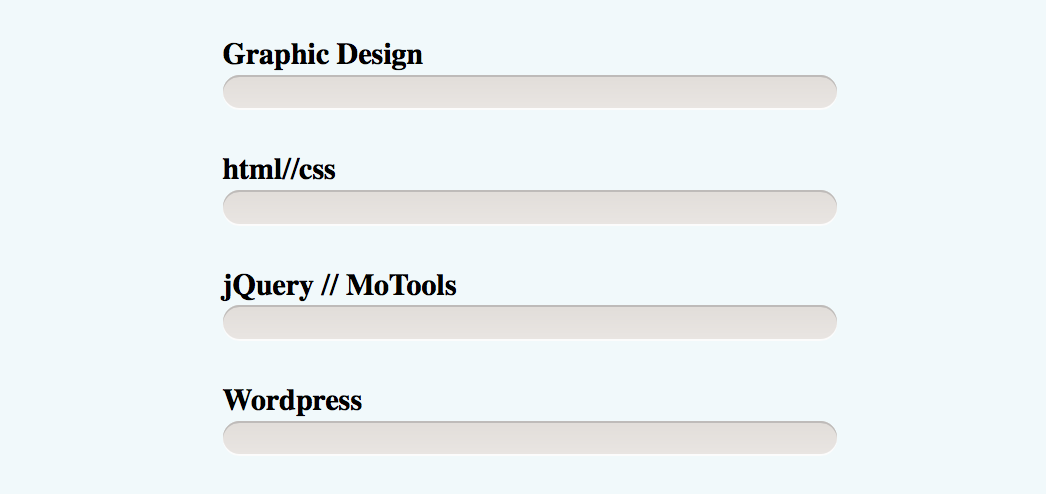
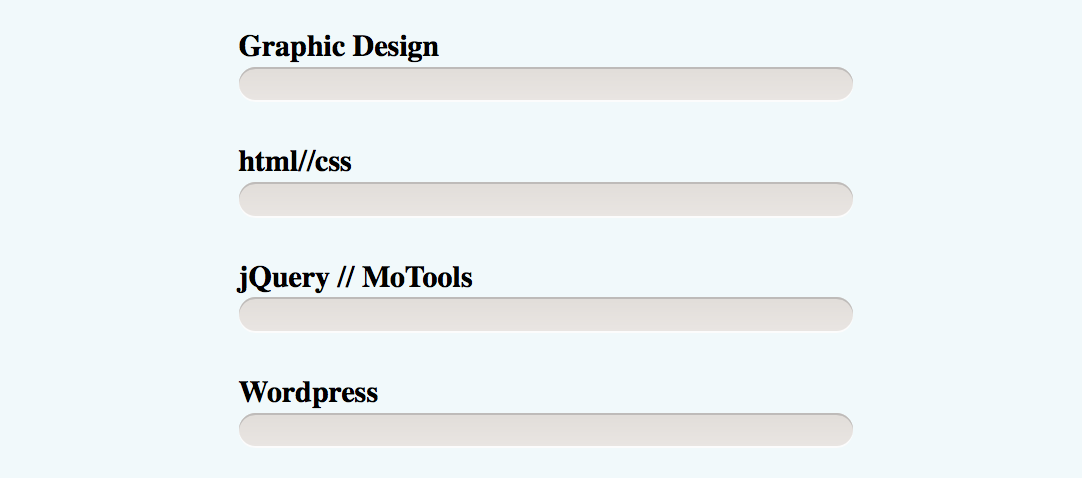
one

diff --git a/blog/article/index.html b/blog/article/index.html
@@ -80,38 +80,113 @@
                 <pre>
 #skill {
     list-style: none;
-    font-size: .8em;
-    width: 24em;
-    margin: 0 auto;
-    padding:2em 0;
+    font-size: 12px;
+    width: 296px;
+    margin: 50px auto 0;
+    padding: 30px 0;
     position: relative;
     line-height: 2em;
 }
 #skill li {
-    margin-bottom: 3.2em;
+    margin-bottom: 50px;
     background: #e9e5e2;
 
-    /*--背景槽渐变色--*/
-    background-image: -webkit-gradient(linear,left top,left bottom,from(#e1ddd9), to(#e9e5e2));   
-    background-image: -webkit-linear-gradient(top,#e1ddd9,#e9e5e2);
+    background-image: -webkit-gradient(linear,left top,left bottom,from(#e1ddd9), to(#e9e5e2));
     background-image: -moz-linear-gradient(top,#e1ddd9,#e9e5e2);
     background-image: -ms-linear-gradient(top,#e1ddd9,#e9e5e2);
     background-image: -o-linear-gradient(top,#e1ddd9,#e9e5e2);
     background-image: linear-gradient(top,#e1ddd9,#e9e5e2);
 
-    height: 1.3em;
-    border-radius: 10px;    /*--背景槽的圆角--*/
+    height: 20px;
+    border-radius: 10px;  /*--背景槽的圆角--*/
 
-   /*--背景槽内凹阴影效果--*/
     -webkit-box-shadow: 0 1px 0 #bebbb9 inset, 0 1px 0 #fcfcfc;
     box-shadow: 0 1px 0 #bebbb9 inset, 0 1px 0 #fcfcfc;
 }
-   ／*--标题文字上移--*／
 #skill li h3 {
     position: relative;
-    top: -1.5em;
-}   
-            </pre>
+    top: -25px;   ／*--标题文字上移--*／
+}  
+                </pre>
+            </div>
+            <p>加完这些样式之后，标题和背景槽的样式都设置好了</p>
+            <img src="three.png" />
+            <p>接下来就可以设置颜色条的样式了：</p>
+            <div class="html-1">
+                <pre>
+/*--四条进度条的统一样式--*/
+.bar {
+    height: 18px;
+    margin: 1px 2px;
+    position: absolute;
+    border-radius: 9px;
+    -webkit-box-shadow:0 1px 0 #fcfcfc inset, 0 1px 0 #bebbb9;
+    box-shadow:0 1px 0 #fcfcfc inset, 0 1px 0 #bebbb9;
+}
+/*--单独设置进度条的样式--*/
+.bar-1 {
+    width: 100%;
+    -webkit-animation: graphic-design 2s ease-in-out;
+    background-color: #f674a4;
+    background-image: -webkit-gradient( linear, left top, left bottom, from(#f674a4), to(#e06995));
+    background-image: -webkit-linear-gradient(top, #f674a4, #e06995);
+    background-image: -moz-linear-gradient(top, #f674a4, #e06995);
+    background-image: -ms-linear-gradient(top, #f674a4, #e06995);
+    background-image: -o-linear-gradient(top, #f674a4, #e06995);
+    background-image: linear-gradient(top, #f674a4, #e06995);
+}
+.bar-2 {
+     width: 90%;
+    -webkit-animation: html-css 2s ease-in-out;
+    background-color: #0674a4;
+    background-image: -webkit-gradient( linear, left top, left bottom, from(#f674a4), to(#e06995));
+    background-image: -webkit-linear-gradient(top, #0674a4, #006995);
+    background-image: -moz-linear-gradient(top, #0674a4, #006995);
+    background-image: -ms-linear-gradient(top, #0674a4, #006995);
+    background-image: -o-linear-gradient(top, #0674a4, #006995);
+    background-image: linear-gradient(top, #0674a4, #006995);
+}
+.bar-3 {
+     width: 65%;
+    -webkit-animation: jQuery 2s ease-in-out;
+    background-color: #06f4a4;
+    background-image: -webkit-gradient( linear, left top, left bottom, from(#f674a4), to(#e06995));
+    background-image: -webkit-linear-gradient(top, #06f4a4, #00f995);
+    background-image: -moz-linear-gradient(top, #06f4a4, #00f995);
+    background-image: -ms-linear-gradient(top, #06f4a4, #00f995);
+    background-image: -o-linear-gradient(top, #06f4a4, #00f995);
+    background-image: linear-gradient(top, #06f4a4, #00f995);
+}
+.bar-4 {
+     width: 80%;
+    -webkit-animation: Wordpress 2s ease-in-out;
+    background-color: #06f4ff;
+    background-image: -webkit-gradient( linear, left top, left bottom, from(#f674a4), to(#e06995));
+    background-image: -webkit-linear-gradient(top, #06f4ff, #00f9ff);
+    background-image: -moz-linear-gradient(top, #06f4ff, #00f9ff);
+    background-image: -ms-linear-gradient(top, #06f4ff, #00f9ff);
+    background-image: -o-linear-gradient(top, #06f4ff, #00f9ff);
+    background-image: linear-gradient(top, #06f4ff, #00f9ff);
+}
+/*--设置每条进度条的关键帧动画--*/
+@-webkit-keyframes graphic-design {
+    0% {width:0;}
+    100%{width:100%;}
+}
+@-webkit-keyframes html-css {
+    0% {width:0;}
+    100%{width:90%;}
+}
+@-webkit-keyframes jQuery {
+    0% {width:0;}
+    100%{width:65%;}
+}
+@-webkit-keyframes Wordpress {
+    0% {width:0;}
+    100%{width:80%;}
+}
+                
+                </pre>
             </div>
         </main>
     </div>
